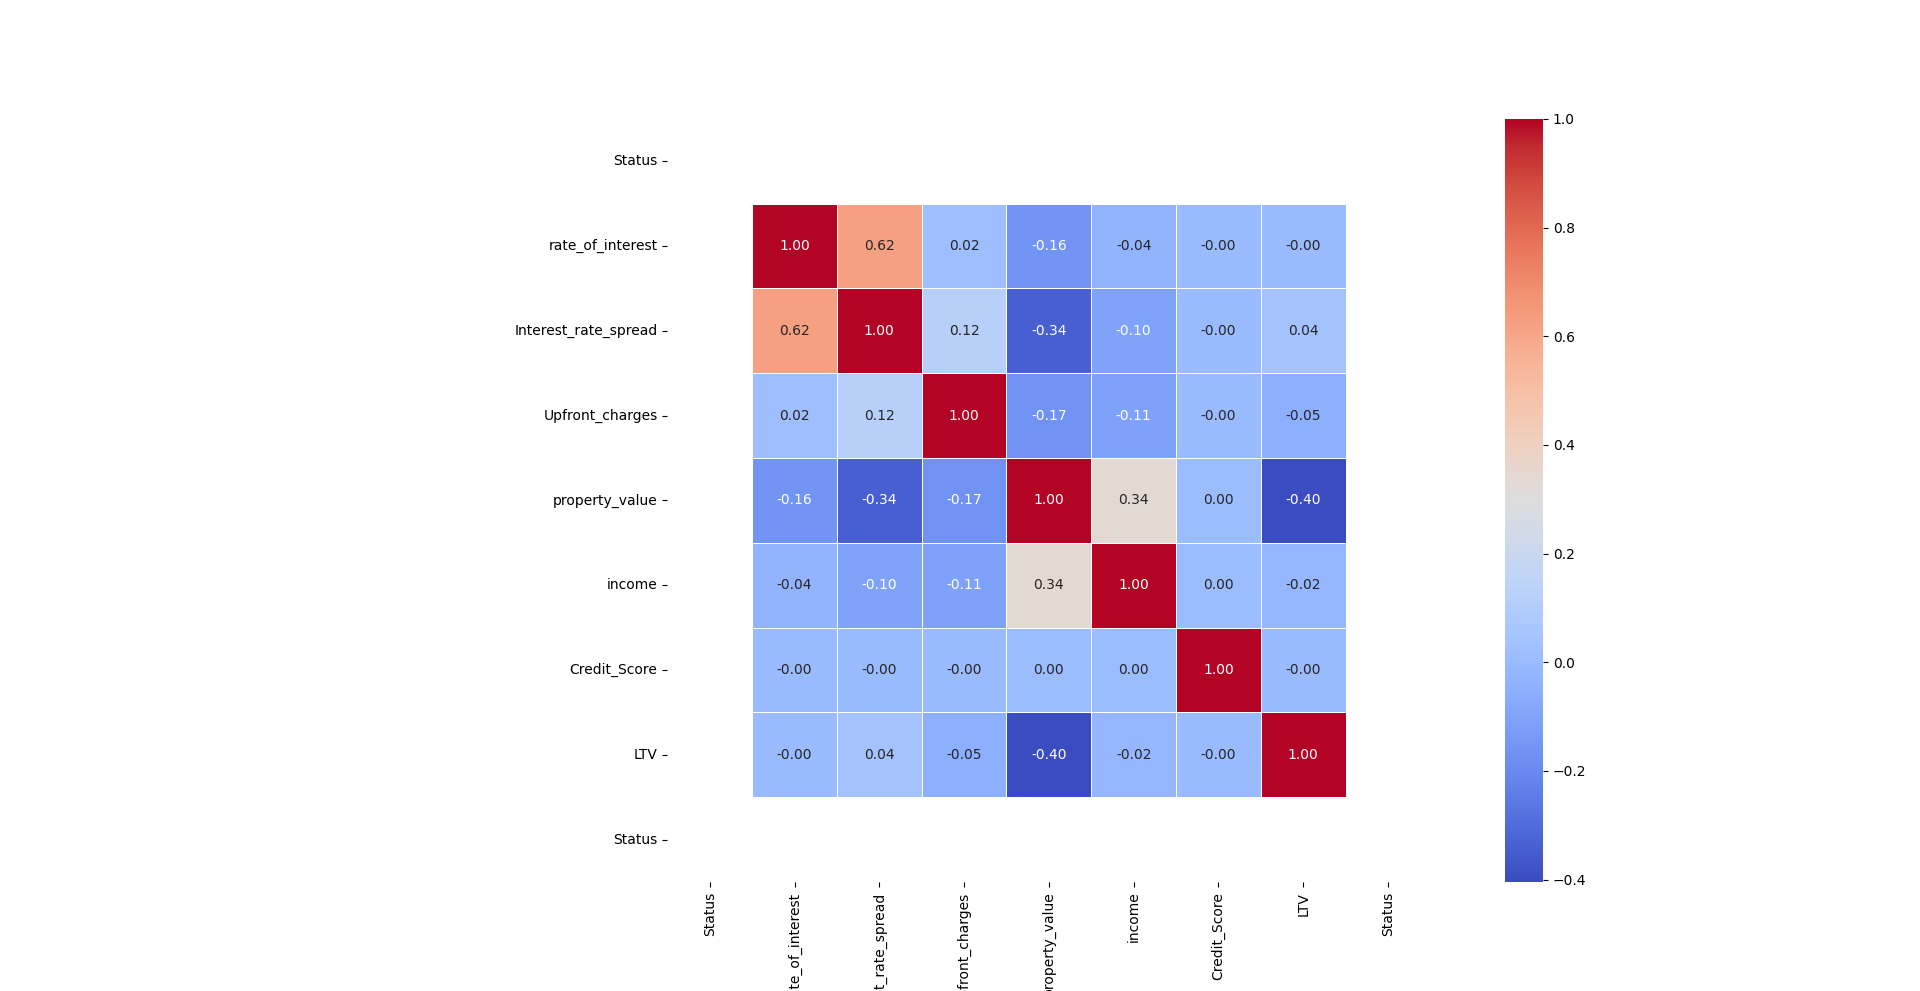
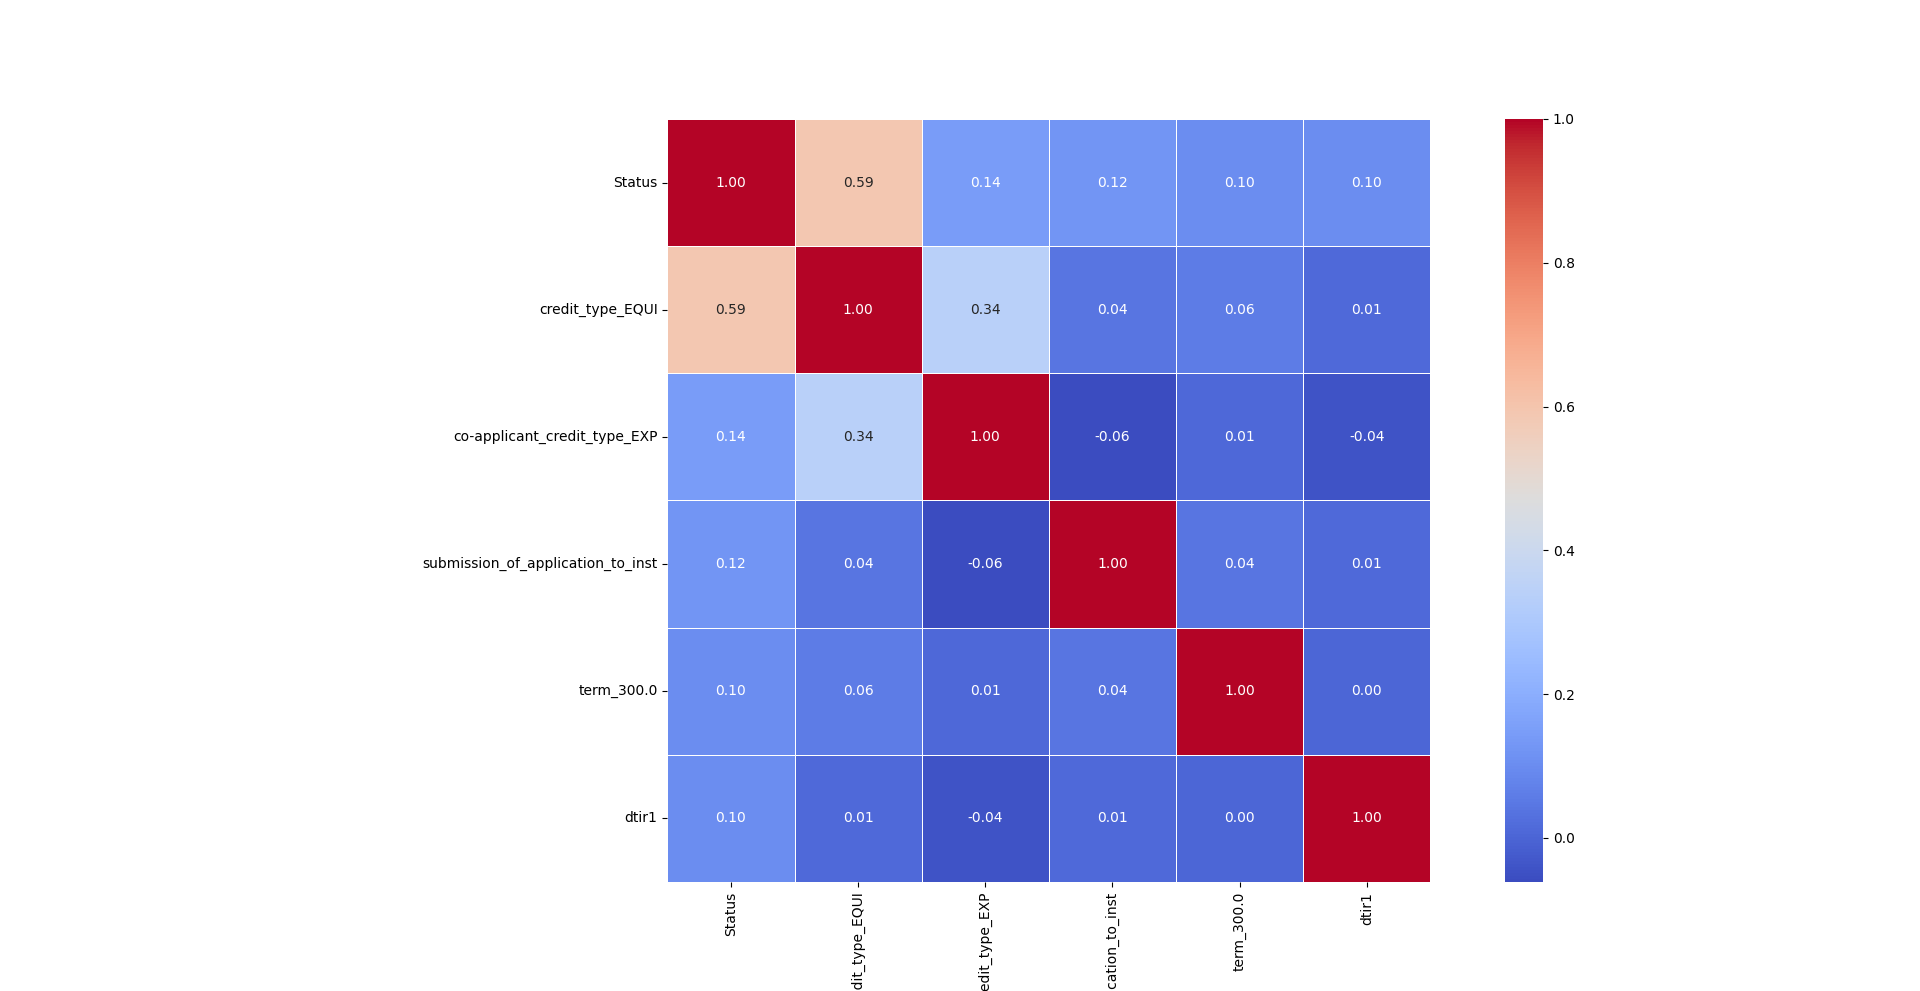
checkpoint

Changed region(s): [[0.2188, 0.1211, 0.75, 1.0]]

diff --git a/unique_values.py b/unique_values.py
@@ -4,42 +4,27 @@ import matplotlib.pyplot as plt
 import seaborn as sns
 from scipy import stats
 
-data = pd.read_csv("loan_default.csv")
-# Select only numeric columns
-numeric_data = data.select_dtypes(include=['number'])
+data = pd.read_csv("filtered_data.csv")
+# Specify the column name
+column_name = 'Credit_Score'
 
-# Create a dictionary of unique values for numeric columns
-unique_values_dict = {col: numeric_data[col].unique() for col in numeric_data.columns}
+# Check if the column exists in the DataFrame
+if column_name in data.columns:
+    # Get unique values
+    unique_values = data[column_name].unique()
+    sorted_unique_values = sorted(unique_values)
+    print(sorted_unique_values)
 
-# Print unique values for each numeric column
-for col, unique_vals in unique_values_dict.items():
-    has_negative = (numeric_data[col] < 0).any()
-    # print(f"Unique values in {col}: {unique_vals}")
-    if has_negative:
-        print(f"Column {col} contains negative values.")
-    # else:
-        # print(f"Column {col} does not contain negative values.")
+    summary_stats = data[column_name].describe()
+    print(f"Summary statistics for the column '{column_name}':")
+    print(summary_stats)
 
-# # Specify the column name
-# column_name = 'Credit_Score'
-
-# # Check if the column exists in the DataFrame
-# if column_name in data.columns:
-#     # Get unique values
-#     unique_values = data[column_name].unique()
-#     sorted_unique_values = sorted(unique_values)
-#     print(sorted_unique_values)
-
-#     summary_stats = data[column_name].describe()
-#     print(f"Summary statistics for the column '{column_name}':")
-#     print(summary_stats)
-
-#      # QQ plot
-#     plt.figure(figsize=(10, 6))
-#     stats.probplot(data[column_name].dropna(), dist="norm", plot=plt)
-#     plt.title(f'QQ Plot for {column_name}')
-#     plt.show()
+     # QQ plot
+    plt.figure(figsize=(10, 6))
+    stats.probplot(data[column_name].dropna(), dist="norm", plot=plt)
+    plt.title(f'QQ Plot for {column_name}')
+    plt.show()
 
    
-# else:
-#     print(f"The column '{column_name}' does not exist in the dataset.")
+else:
+    print(f"The column '{column_name}' does not exist in the dataset.")

diff --git a/correlation_matrix.py b/correlation_matrix.py
@@ -8,23 +8,14 @@ import numpy as np
 # Load the data
 data = pd.read_csv("filtered_data.csv")
 
-# Check for infinite values and replace them with NaN
-data.replace([np.inf, -np.inf], np.nan, inplace=True)
-
-# Fill any NaNs that may have been introduced by the log transformation
-for column in data.columns:
-    if data[column].dtype.name != 'category':
-        data[column] = data[column].fillna(data[column].median())
-
-# Encode the target variable 'Status' as numeric.
-# data['Status'] = data['Status'].astype(int)
-data['Status'] = data['Status'].astype('category').cat.codes
-
 # Correlation analysis to detect high correlation 
 correlation_matrix = data.corr()
 correlation_with_target = correlation_matrix["Status"].sort_values(ascending=False)
-top_corr_features = correlation_with_target.index[1:11]  # Select top 10 correlated features
+top_corr_features = correlation_with_target.index[1:6]  # Select top 10 correlated features
+top_corr_features = top_corr_features.insert(0, "Status")
 filtered_corr_matrix = correlation_matrix.loc[top_corr_features, top_corr_features]
+
+print(correlation_with_target.to_string())
 
 plt.figure(figsize=(14, 12))
 sns.heatmap(filtered_corr_matrix, annot=True, fmt=".2f", cmap='coolwarm', cbar=True, square=True, linewidths=.5)

diff --git a/dummy.py b/dummy.py
@@ -22,15 +22,6 @@ y = data['Status']
 X_train, X_test, y_train, y_test = train_test_split(X, y, test_size=0.2, random_state=42)
 
 
-# Step 6: select important features 
-
-# Method 1: Correlation Analysis
-correlation_matrix = data.corr()
-correlation_with_target = correlation_matrix["Status"].sort_values(ascending=False)
-top_corr_features = correlation_with_target.index[1:11]  # Select top 10 correlated features
-
-print(top_corr_features)
-
 
 # Define the dummy classifier model
 dummy = DummyClassifier(strategy="uniform", random_state=42)
